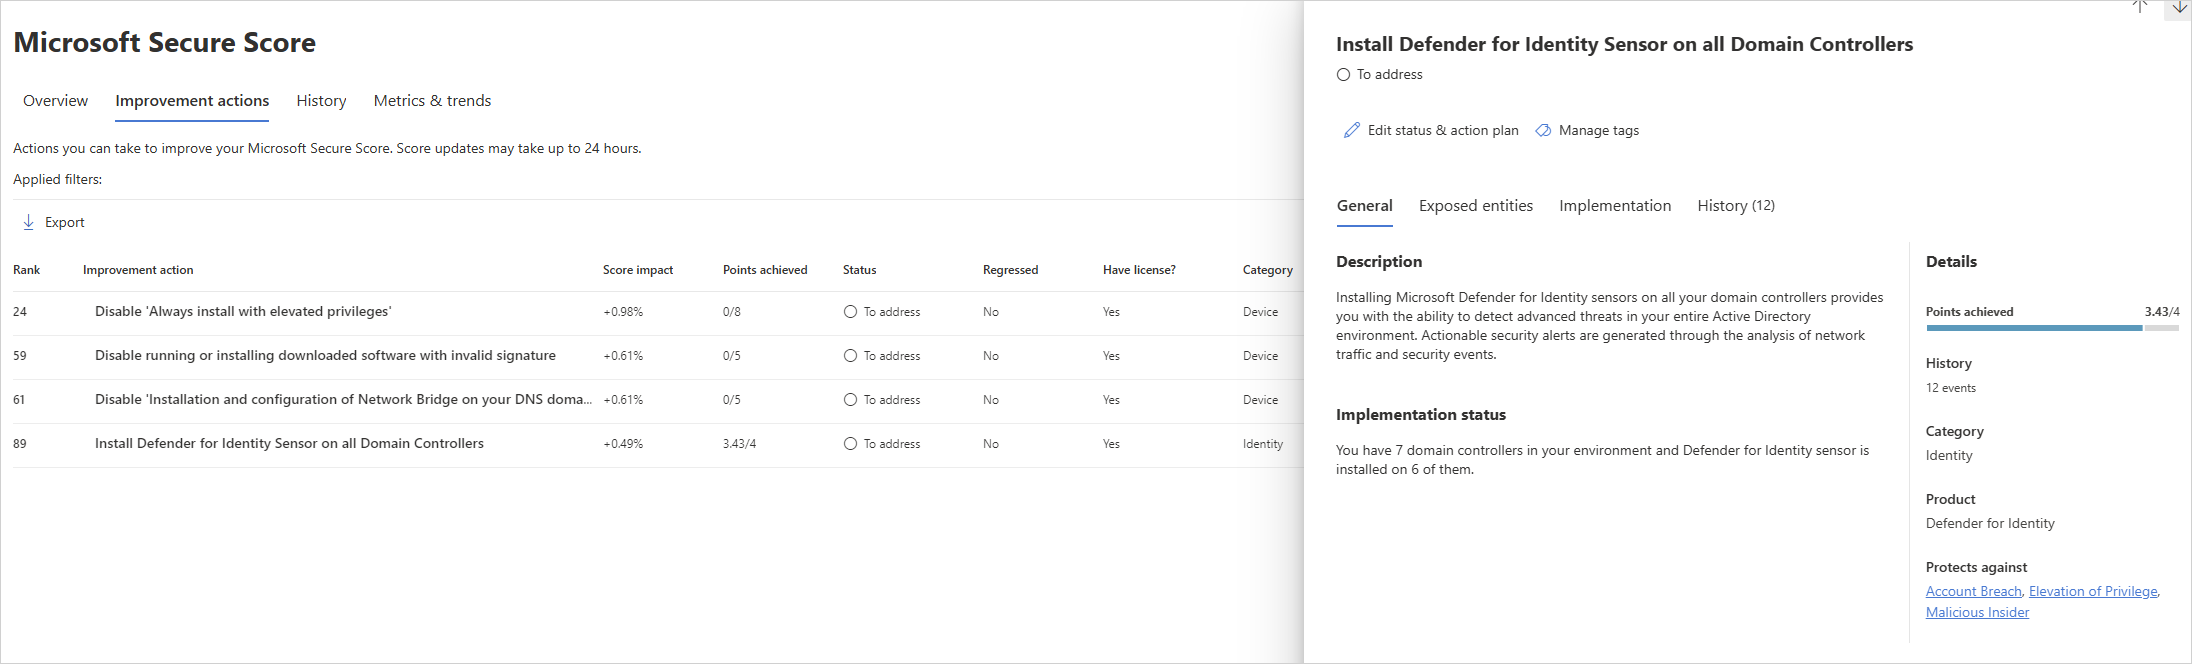
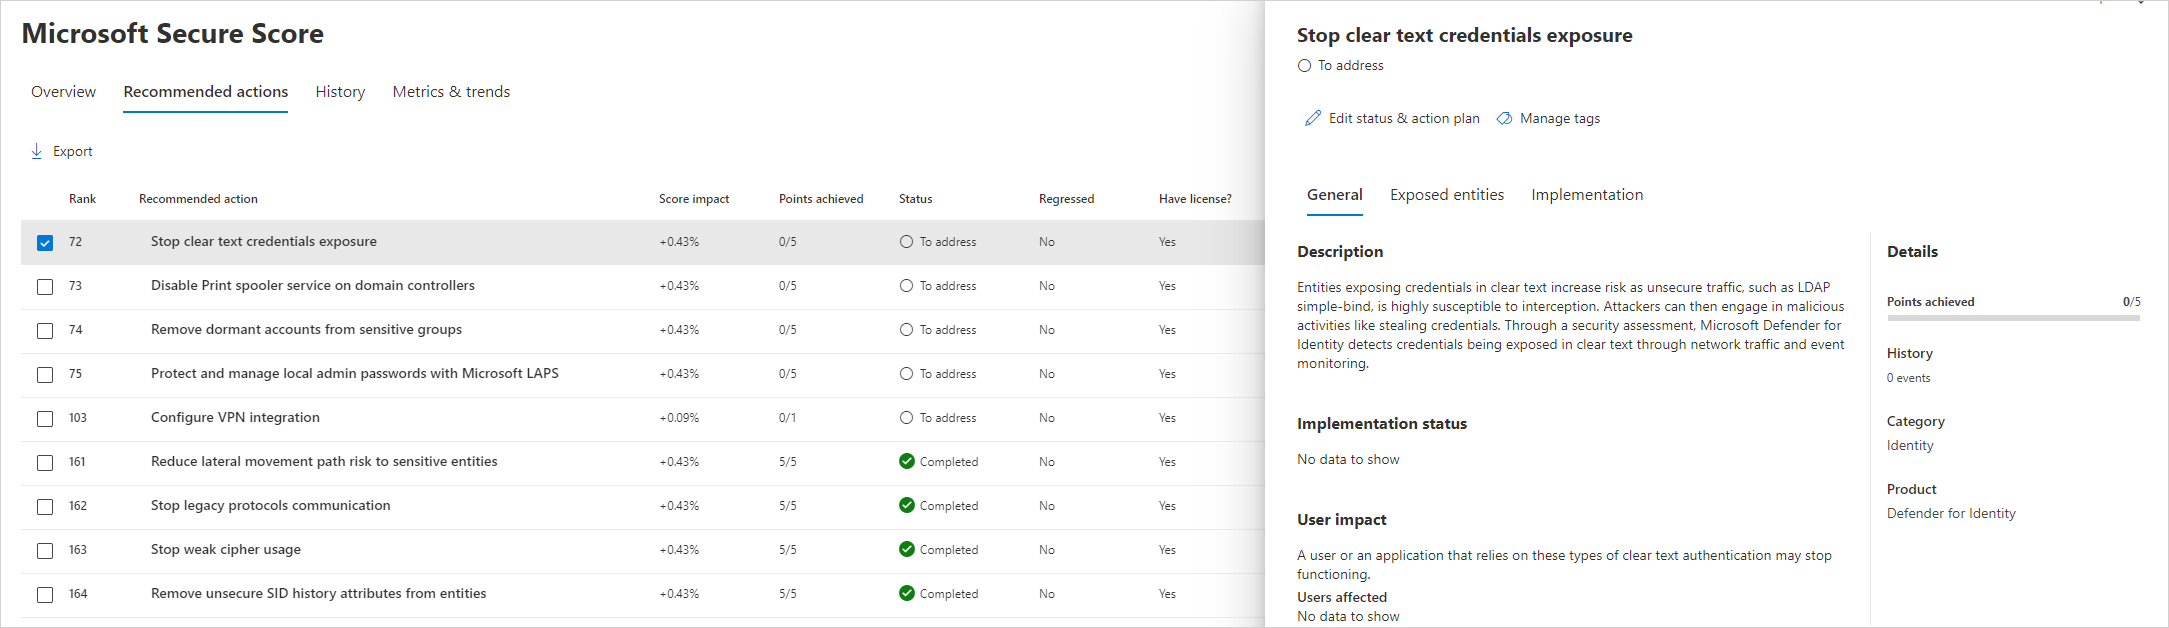
Now called recommended actions

diff --git a/ATPDocs/security-assessment.md b/ATPDocs/security-assessment.md
@@ -9,7 +9,7 @@ ms.topic: how-to
 
 Typically, organizations of all sizes have limited visibility into whether or not their on-premises apps and services could introduce a security vulnerability to their organization. The problem of limited visibility is especially true regarding use of unsupported or outdated components.
 
-While your company may invest significant time and effort on hardening identities and identity infrastructure (such as Active Directory, Active Directory Connect) as an on-going project, it's easy to remain unaware of common misconfigurations and use of legacy components that represent one of the greatest threat risks to your organization. Microsoft security research reveals that most identity attacks utilize common misconfigurations in Active Directory and continued use of legacy components (such as NTLMv1 protocol) to compromise identities and successfully breach your organization. To combat this effectively, [!INCLUDE [Product long](includes/product-long.md)] now offers proactive identity security posture assessments to detect and suggest improvement actions across your on-premises Active Directory configurations.
+While your company may invest significant time and effort on hardening identities and identity infrastructure (such as Active Directory, Active Directory Connect) as an on-going project, it's easy to remain unaware of common misconfigurations and use of legacy components that represent one of the greatest threat risks to your organization. Microsoft security research reveals that most identity attacks utilize common misconfigurations in Active Directory and continued use of legacy components (such as NTLMv1 protocol) to compromise identities and successfully breach your organization. To combat this effectively, [!INCLUDE [Product long](includes/product-long.md)] now offers proactive identity security posture assessments to detect and recommend actions across your on-premises Active Directory configurations.
 
 ## What do Defender for Identity's security posture assessments provide?
 
@@ -25,7 +25,7 @@ While your company may invest significant time and effort on hardening identitie
 
 ### What is Microsoft Secure Score?
 
-Microsoft Secure Score is a measurement of an organization's security posture, with a higher number indicating more improvement actions taken. It can be found at <https://security.microsoft.com/securescore> in the [Microsoft 365 Defender portal](/microsoft-365/security/defender/microsoft-365-defender).
+Microsoft Secure Score is a measurement of an organization's security posture, with a higher number indicating more recommended actions taken. It can be found at <https://security.microsoft.com/securescore> in the [Microsoft 365 Defender portal](/microsoft-365/security/defender/microsoft-365-defender).
 
 ### Licensing
 
@@ -52,13 +52,13 @@ A [!INCLUDE [Product short](includes/product-short.md)] license is required.
 To access identity security posture assessments:
 
 1. Open the [Microsoft Secure Score dashboard](https://security.microsoft.com/securescore).
-1. Select the **Improvement actions** tab. You can search for a particular improvement action, or filter the results (for example, by the category **Identity**).
+1. Select the **Recommended actions** tab. You can search for a particular recommended action, or filter the results (for example, by the category **Identity**).
 
-    ![Improvement actions.](media/improvement-actions.png)
+    [![Recommended actions.](media/recommended-actions.png)](media/recommended-actions.png#lightbox)
 
-1. For more details about the assessment, select the **Improvement action**.
+1. For more details, select the assessment.
 
-    ![Select the assessment.](media/select-assessment.png)
+    [![Select the assessment.](media/select-assessment.png)](media/select-assessment.png#lightbox)
 
 ## Next steps
 

diff --git a/ATPDocs/security-assessment-unconstrained-kerberos.md b/ATPDocs/security-assessment-unconstrained-kerberos.md
@@ -25,7 +25,7 @@ The following is a description of the risk posed by different delegation types:
 
 ## How do I use this security assessment?
 
-1. Review the suggested improvement action at <https://security.microsoft.com/securescore?viewid=actions> to discover which of your non-domain controller entities are configured for **unsecure Kerberos delegation**.
+1. Review the recommended action at <https://security.microsoft.com/securescore?viewid=actions> to discover which of your non-domain controller entities are configured for **unsecure Kerberos delegation**.
 
     ![Unsecure Kerberos delegation security assessment.](media/cas-isp-kerberos-delegation-2.png)
 1. Take appropriate action on those at-risk users, such as removing their unconstrained attribute or changing it to a more secure constrained delegation.

diff --git a/ATPDocs/security-assessment-laps.md b/ATPDocs/security-assessment-laps.md
@@ -20,7 +20,7 @@ LAPS simplifies password management while helping customers implement additional
 
 ## How do I use this security assessment?
 
-1. Review the suggested improvement action at <https://security.microsoft.com/securescore?viewid=actions> to discover which of your domains have some (or all) compatible Windows devices that aren't protected by LAPS, or that haven't had their LAPS managed password changed in the last 60 days.
+1. Review the recommended action at <https://security.microsoft.com/securescore?viewid=actions> to discover which of your domains have some (or all) compatible Windows devices that aren't protected by LAPS, or that haven't had their LAPS managed password changed in the last 60 days.
 
     ![See which domains have devices unprotected by LAPS.](media/cas-isp-laps-1.png)
 

diff --git a/ATPDocs/security-assessment-print-spooler.md b/ATPDocs/security-assessment-print-spooler.md
@@ -28,7 +28,7 @@ While this security assessment focuses on domain controllers, any server is pote
 
 ## How do I use this security assessment?
 
-1. Review the suggested improvement action at <https://security.microsoft.com/securescore?viewid=actions> to discover which of your domain controllers has the **Print spooler** service enabled.
+1. Review the recommended action at <https://security.microsoft.com/securescore?viewid=actions> to discover which of your domain controllers has the **Print spooler** service enabled.
 
     ![Disable Print spooler service security assessment.](media/cas-isp-print-spooler-2.png)
 1. Take appropriate action on the at-risk domain controllers and actively remove the Print spooler service either manually, through GPO or other types of remote commands.

diff --git a/ATPDocs/security-assessment-unmonitored-domain-controller.md b/ATPDocs/security-assessment-unmonitored-domain-controller.md
@@ -19,7 +19,7 @@ In order to operate at maximum efficiency, all domain controllers must be monito
 
 ## How do I use this security assessment?
 
-1. Review the suggested improvement action at <https://security.microsoft.com/securescore?viewid=actions> to discover which of your domain controllers are unmonitored.
+1. Review the recommended action at <https://security.microsoft.com/securescore?viewid=actions> to discover which of your domain controllers are unmonitored.
 
     ![Install Defender for Identity Sensor on all Domain Controllers.](media/cas-isp-unmonitored-domain-controller-1.png)
 1. Take appropriate action on those domain controllers by [installing and configuring monitoring sensors](/defender-for-identity/sensor-settings#domain-controller-status).

diff --git a/ATPDocs/security-assessment-unsecure-sid-history-attribute.md b/ATPDocs/security-assessment-unsecure-sid-history-attribute.md
@@ -23,7 +23,7 @@ For example, a non-sensitive account in a domain can contain the Enterprise Admi
 
 ## How do I use this security assessment?
 
-1. Review the suggested improvement action at <https://security.microsoft.com/securescore?viewid=actions> to discover which of your accounts have an unsecure SID History attribute.
+1. Review the recommended action at <https://security.microsoft.com/securescore?viewid=actions> to discover which of your accounts have an unsecure SID History attribute.
 
     ![Review top impacted entities and create an action plan.](media/cas-isp-unsecure-sid-history-attribute-1.png)
 1. Take appropriate action to remove SID History attribute from the accounts using PowerShell using the following steps:

diff --git a/ATPDocs/security-assessment-dormant-entities.md b/ATPDocs/security-assessment-dormant-entities.md
@@ -23,7 +23,7 @@ It doesn't matter if the cause is employee turnover or resource mismanagement -s
 
 ## How do I use this security assessment?
 
-1. Review the suggested improvement action at <https://security.microsoft.com/securescore?viewid=actions> to discover which of your sensitive accounts are dormant.
+1. Review the recommended action at <https://security.microsoft.com/securescore?viewid=actions> to discover which of your sensitive accounts are dormant.
 
     ![Remediate dormant entities ini sensitive groups.](media/cas-isp-dormant-entities-sensitive-groups-1.png)
 1. Take appropriate action on those user accounts by removing their privileged access rights or by deleting the account.

diff --git a/ATPDocs/security-assessment-unsecure-account-attributes.md b/ATPDocs/security-assessment-unsecure-account-attributes.md
@@ -21,7 +21,7 @@ For example, if the attribute *PasswordNotRequired* is enabled, an attacker can 
 
 ## How do I use this security assessment?
 
-1. Review the suggested improvement action at <https://security.microsoft.com/securescore?viewid=actions> to discover which of your accounts have unsecure attributes.
+1. Review the recommended action at <https://security.microsoft.com/securescore?viewid=actions> to discover which of your accounts have unsecure attributes.
 
     ![Review top impacted entities and create an action plan.](media/cas-isp-unsecure-account-attributes-1.png)
 1. Take appropriate action on those user accounts by modifying or removing the relevant attributes.

diff --git a/ATPDocs/security-assessment-unsecure-domain-configurations.md b/ATPDocs/security-assessment-unsecure-domain-configurations.md
@@ -19,7 +19,7 @@ Malicious actors, much like thieves, often look for the easiest and quietest way
 
 ## How do I use this security assessment?
 
-1. Review the suggested improvement action at <https://security.microsoft.com/securescore?viewid=actions> to discover which of your domains have unsecure configurations.
+1. Review the recommended action at <https://security.microsoft.com/securescore?viewid=actions> to discover which of your domains have unsecure configurations.
     ![Review top impacted entities and create an action plan.](media/unsecure-domain-configurations.png)
 1. Take appropriate action on these domains by modifying or removing the relevant configurations.
 

diff --git a/ATPDocs/security-assessment-legacy-protocols.md b/ATPDocs/security-assessment-legacy-protocols.md
@@ -31,7 +31,7 @@ To retire the use of legacy protocols, your organization must first discover whi
 
 ## How do I use this security assessment?
 
-1. Review the suggested improvement action at <https://security.microsoft.com/securescore?viewid=actions> to discover which of your top discovered entities are using legacy protocols.
+1. Review the recommended action at <https://security.microsoft.com/securescore?viewid=actions> to discover which of your top discovered entities are using legacy protocols.
 
     ![Prevent usage of legacy protocols.](media/cas-isp-legacy-protocols-2.png)
 1. Take appropriate action on those entities to discover dependencies.

diff --git a/ATPDocs/security-assessment-riskiest-lmp.md b/ATPDocs/security-assessment-riskiest-lmp.md
@@ -26,7 +26,7 @@ For example, the riskiest paths are more readily visible to attackers and, if co
 
 ## How do I use this security assessment?
 
-1. Review the suggested improvement action at <https://security.microsoft.com/securescore?viewid=actions> to discover which of your **sensitive** accounts have risky LMPs.
+1. Review the recommended action at <https://security.microsoft.com/securescore?viewid=actions> to discover which of your **sensitive** accounts have risky LMPs.
 
     ![Review top impacted entities and create an action plan.](media/cas-isp-riskiest-lmp-1.png)
 1. Take appropriate action:

diff --git a/ATPDocs/security-assessment-weak-cipher.md b/ATPDocs/security-assessment-weak-cipher.md
@@ -13,7 +13,7 @@ Cryptography relies on ciphers to encrypt our data. For example, RC4 (Rivest Cip
 
 ## How do I use this security assessment to improve my organizational security posture?
 
-1. Review the suggested improvement action at <https://security.microsoft.com/securescore?viewid=actions> for weak cipher usage.
+1. Review the recommended action at <https://security.microsoft.com/securescore?viewid=actions> for weak cipher usage.
 
     ![Review weak cipher usage assessment.](media/cas-isp-weak-cipher-2.png)
 1. Research why the identified clients and servers are using weak ciphers.
